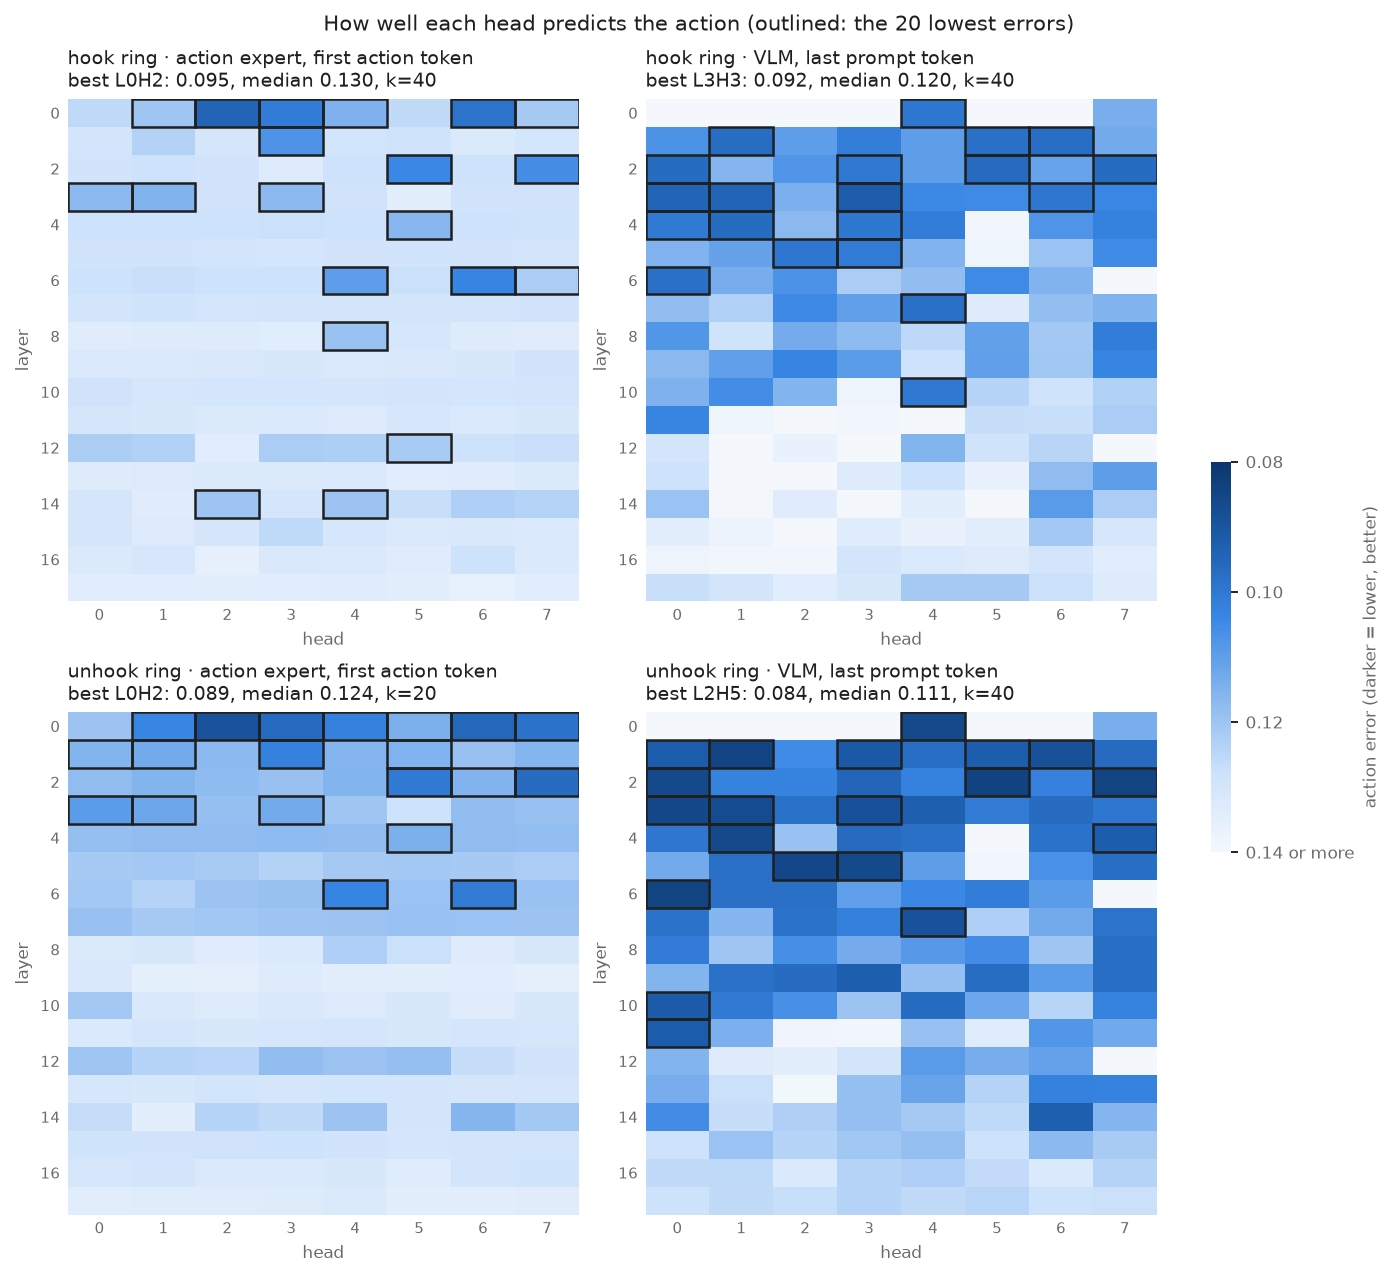
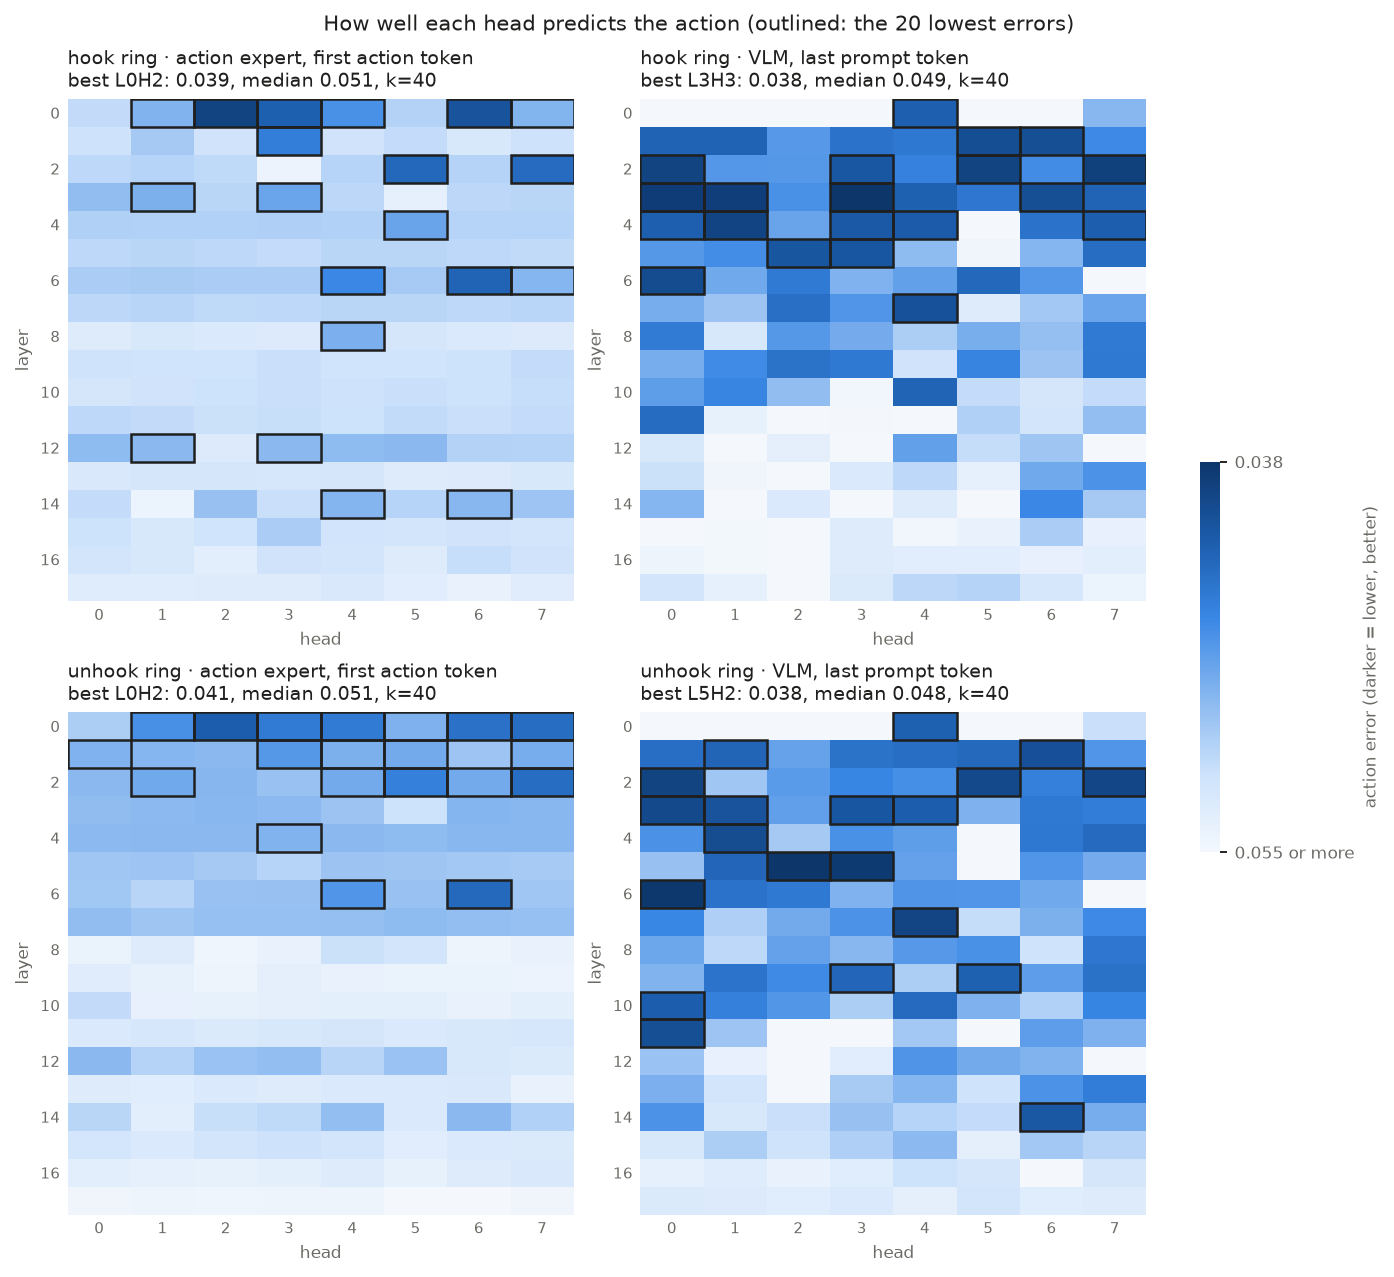
figures for updated head selection n towerstack

diff --git a/RESULTS.md b/RESULTS.md
@@ -216,7 +216,9 @@ classifying tasks.
 synthetic data. Three things change from the section above:
 
 - **Input:** the first action token now receives the model's own predicted actions instead of noise.
-- **Target:** 8 numbers, which are the active arm's 7 joint speeds plus its gripper. They are not
+- **Target:** the paper's robot has one arm, so its target is that arm's 7 joint speeds plus its
+  gripper. Ours is the same for the whole robot: 25 numbers. For the 23 joints (both arms, chest
+  and neck), each is the speed over the next 0.1 s; for the 2 grippers, the command. They are not
   scaled.
 - **Frames:** we use all frames rather than the paper's keyframes, because the paper's rule would
   leave almost no frames in the contact phases.
@@ -225,74 +227,66 @@ For each k, the code joins the outputs of that k's 20 best heads into one long v
 the same way. The k with the lowest error wins, and its 20 heads are the **selected heads**. The
 paper selects at the first action token, so these are the action expert's heads.
 
-- Hook ring (k=40): L0H2 L0H6 L0H3 L6H6 L2H5 L2H7 L1H3 L6H4 L0H4 L3H1 L4H5 L3H3 L3H0 L8H4 L14H4
-  L14H2 L0H1 L0H7 L12H5 L6H7
-- Unhook ring (k=20): L0H2 L0H6 L0H3 L2H7 L0H7 L2H5 L6H6 L0H4 L1H3 L6H4 L0H1 L3H0 L3H1 L1H1 L3H3
-  L4H5 L0H5 L1H5 L2H6 L1H0
+- Hook ring (k=40): L0H2 L0H6 L0H3 L6H6 L2H5 L2H7 L1H3 L6H4 L0H4 L4H5 L3H3 L8H4 L3H1 L0H1 L0H7
+  L14H4 L6H7 L14H6 L12H3 L12H1
+- Unhook ring (k=40): L0H2 L6H6 L2H7 L0H7 L0H6 L0H3 L0H4 L2H5 L0H1 L6H4 L1H3 L2H1 L2H6 L1H5 L2H4
+  L1H7 L1H4 L0H5 L1H0 L4H3
 
 Figures are in `pi05_base_denoised/figures/`: `selected_heads.png` shows these heads, and
 `selection_heatmaps.png`, `selection_layers.png` and `selection_k.png` show the errors behind them.
 
+**An earlier version scored only the active arm's 8 numbers.** Switching to the whole robot kept 17
+of the 20 selected heads in hook ring and 15 of 20 in unhook ring. The order of all 144 heads barely
+changed (rank correlation 0.96-0.97, where 1 is identical order). The unhook-ring fine-tuning runs
+used that earlier selection.
+
 ### How well they predict
 
-**What the error means here.** It is the squared difference averaged over the 8 numbers, with joint
-speeds in rad/s and the gripper from 0 to 1. So it is on a different scale from the 25-dimension
-errors in the section above, and the two can't be compared directly. An error of 0.113 means a
-typical miss of about 0.34 (its square root) per number. The gripper counts about as much as a
-fast-moving joint.
+**What the error means here.** It is the squared difference averaged over the 25 numbers, with joint
+speeds in rad/s and the grippers from 0 to 1. So it is on a different scale from the errors in the
+section above, and the two can't be compared directly. An error of 0.045 means a typical miss of
+about 0.21 (its square root) per number. The arms and grippers make up over 90% of the variation in
+the target; the chest and neck make up about 6-7%, so they count for little.
 
-The easiest way to read these values is the last two columns. They show how much lower each error is
-than the first row, which is the error from always guessing the average action.
-
-| prediction | error: hook ring | error: unhook ring | better than guessing the average: hook ring | better than guessing the average: unhook ring |
+| prediction | error: hook ring | error: unhook ring | lower than the median head: hook ring | lower than the median head: unhook ring |
 |---|---|---|---|---|
-| Guess the average action of the task's other episodes (no head) | 0.137 | 0.133 | - | - |
-| Median head | 0.130 | 0.124 | 5% | 7% |
-| The 20 selected heads, joined | 0.113 | 0.110 | 18% | 17% |
-| Best head (L0H2) | 0.095 | 0.089 | 31% | 33% |
-| Time only (no head; see below) | 0.100 | 0.086 | 27% | 35% |
-
-**The two no-head rows are extra checks we added.** They are not part of the paper's method, and
-they come from a one-off script that is not in the repository. The **time-only** row predicts a
-frame's action by averaging other episodes' frames at the same point in the episode, for example
-40% of the way through. It uses a plain average and knows each episode's total length, which a head
-doesn't and which isn't known during a real run. So it has an advantage over the heads.
+| Median head | 0.051 | 0.051 | - | - |
+| The 20 selected heads, joined | 0.045 | 0.047 | 12% | 8% |
+| Best head (L0H2) | 0.039 | 0.041 | 24% | 19% |
 
 ### How much heads differ
 
 | score spread | paper | ours |
 |---|---|---|
-| First action token (action expert) | 0.47 | 0.058 hook ring, 0.078 unhook ring |
-| Last prompt token (VLM) | 0.05 | 0.32 hook ring, 0.27 unhook ring |
+| First action token (action expert) | 0.47 | 0.053 hook ring, 0.062 unhook ring |
+| Last prompt token (VLM) | 0.05 | 0.34 hook ring, 0.25 unhook ring |
 
 ### Conclusions from the selection
 
 13. **Following the paper's code does not make heads differ the way they do in the paper.** At the
-    first action token, the spread is 0.06-0.08 against the paper's 0.47, so our action-expert heads
+    first action token, the spread is 0.05-0.06 against the paper's 0.47, so our action-expert heads
     are nearly alike. The paper's ordering is also reversed, as ours spreads more at the last prompt
     token. Most of that comes from the VLM's layer 0 heads, which are clearly the worst (average
-    error 0.21-0.24 against 0.11-0.12 for other layers). Without layer 0 the spread is 0.12-0.14.
+    error 0.09-0.10 against 0.05 for other layers). Without layer 0 the spread is 0.10-0.12.
     Our robot, target and frames still differ from the paper's.
-14. **Joining the 20 selected heads does not beat the best single head, or the time-only check.**
-    Joined, they reach 0.113 and 0.110, against 0.095 and 0.089 for the best head, and 0.100 and 0.086
-    for time only. Only two single heads beat time only in hook ring (L0H2, L0H6), and none do in
-    unhook ring. Time only has the advantage described above, so this suggests, but does not prove,
-    that the heads add little beyond timing.
-15. **A typical head adds little.** The median head's error is only 5-7% lower than always guessing the
-    average action.
-16. **The selection barely separates the tasks.** The two tasks share 15 of their 20 selected heads. About
-    3 would be shared by chance, and about 8.5 if only each head's layer mattered. So the same
-    individual heads win in both tasks, which makes them look general rather than task-specific.
-17. **The selection favours early layers.** 12 of 20 selected heads in hook ring and 17 of 20 in unhook
-    ring are in layers 0-3. A head's layer alone accounts for 46% and 79% of the differences between
+14. **Joining the 20 selected heads does not beat the best single head.** Joined, they reach 0.045 and
+    0.047, against 0.039 and 0.041 for L0H2 alone.
+15. **Most heads are close to the median.** The best head is 19-24% better than the median head, but
+    the spread above shows that most heads sit within about 5-6% of the average.
+16. **The selection barely separates the tasks.** The two tasks share 11 of their 20 selected heads.
+    About 3 would be shared by chance, and about 8 if only each head's layer mattered. The best head,
+    L0H2, is the same in both.
+17. **The selection favours early layers.** 11 of 20 selected heads in hook ring and 17 of 20 in unhook
+    ring are in layers 0-3. A head's layer alone accounts for 47% and 84% of the differences between
     heads.
-18. **Changing what the action tokens receive changes which heads win.** Only 4-5 of the 20 selected
+18. **Changing what the action tokens receive changes which heads win.** Only 4 of the 20 selected
     heads were also in the earlier motion top 20, and none in the earlier position top 20. The target
     changed too, so to separate the two causes we looked at the last prompt token, where the action
-    tokens' input has no effect: there, 16-18 of 20 stay the same for motion. So most of the change
+    tokens' input has no effect: there, 17-19 of 20 stay the same for motion. So most of the change
     comes from the input.
-19. **k matters little.** In unhook ring, k=20 wins by under 0.5%. Changing k keeps 18-20 of the
-    selected heads in the top 20 at the first action token (16-20 at the last prompt token).
+19. **k matters little.** k=40, the largest value tried, wins in all four cases, but by only 0.3-2.9%.
+    Changing k keeps 17-20 of the selected heads in the top 20 at the first action token (16-20 at
+    the last prompt token).
 
 We have not checked whether the same heads would be selected on new episodes.
 

diff --git a/towerstack/RESULTS.md b/towerstack/RESULTS.md
@@ -1,62 +1,74 @@
 # Head selection on tower stack
 
 The paper's selection, following its released code (`analysis/select_heads.py`), on the base pi0.5.
-The data is 20 random `stack_rings` episodes, every 5th frame: 5,245 frames. Figures are in
+The data is 20 random `stack_rings` episodes, every 5th frame: 5,245 frames. Hook and unhook ring
+were rerun with the same scoring, so all three tasks can be compared. Figures are in
 `towerstack_denoised/figures/`.
-
-**These results are provisional.** `towerstack/prepared/episodes.csv` has the old gripper-based arm
-labels, which are wrong for many of these episodes. Each episode was scored against the arm in that
-file, so some were scored against the idle arm. The selection needs rerunning with corrected labels
-before the numbers below are used.
 
 ## What the numbers mean
 
-The action error is the squared difference between the predicted and real action, averaged over 8
-numbers: one arm's 7 joint speeds (rad/s) and its gripper (0 to 1). Lower is better. The prediction
-is built from the frames, in other episodes of the task, where the head's output is most similar.
+The **action error** is the squared difference between the predicted and real action, averaged over
+the robot's 25 action numbers. For the 23 joints (both arms, chest and neck) that is the speed over
+the next 0.1 s in rad/s; for the 2 grippers, the command from 0 to 1. Lower is better. A head's
+prediction is built from the frames, in other episodes of the task, where its output is most
+similar.
+
+The error depends on how much the robot moves in a task, so errors can be compared between heads on
+one task, but not between tasks. Tower stack's errors are about twice the ring tasks'. That is most
+likely because its actions vary more, but we didn't measure it, so it doesn't show that heads do
+worse on tower stack.
 
 ## Selected heads (action expert, first action token, k=40)
 
-L0H2 L0H6 L0H3 L6H6 L2H7 L6H4 L3H0 L2H5 L12H4 L4H5 L12H0 L14H7 L0H0 L3H1 L2H3 L12H5 L0H7 L14H6 L6H3 L10H0
+L0H2 L0H3 L0H6 L2H7 L6H6 L2H5 L6H4 L3H0 L12H4 L0H7 L3H1 L0H1 L0H4 L4H5 L14H6 L0H0 L2H3 L12H5 L1H3 L14H4
 
 ## Results
 
 | action expert | tower stack | hook ring | unhook ring |
 |---|---|---|---|
-| Best head | L0H2, 0.127 | L0H2, 0.095 | L0H2, 0.089 |
-| Median head | 0.145 | 0.130 | 0.124 |
-| The 20 selected heads, joined | 0.137 | 0.113 | 0.110 |
-| Score spread (paper: 0.47) | 0.024 | 0.058 | 0.078 |
-| Selected heads in layers 0-3 | 10 of 20 | 12 of 20 | 17 of 20 |
+| Best head | L0H2, 0.080 | L0H2, 0.039 | L0H2, 0.041 |
+| Median head | 0.102 | 0.051 | 0.051 |
+| Best head, lower than the median head by | 21% | 24% | 19% |
+| The 20 selected heads joined, lower than the median head by | 7% | 12% | 8% |
+| Score spread (paper: 0.47) | 0.043 | 0.053 | 0.062 |
+| Selected heads in layers 0-3 | 13 of 20 | 11 of 20 | 17 of 20 |
 
 **Score spread** is the standard deviation of the 144 heads' errors divided by their average. At
-0.024, heads' errors differ from the average by only about 2%. At the VLM's last prompt token it is
-0.178, against the paper's 0.05, and it falls to 0.062 without layer 0.
+0.043, heads' errors differ from the average by only about 4%, against about half the average in the
+paper. At the VLM's last prompt token the spread is 0.28, against the paper's 0.05; it falls to 0.105
+without layer 0, whose heads are the worst (average error 0.19 against 0.10 for other layers).
 
 | shared with tower stack | hook ring | unhook ring | by chance | if only the layer mattered |
 |---|---|---|---|---|
-| Selected action-expert heads (of 20) | 12 | 11 | about 3 | about 7 |
-| Rank correlation of all 144 heads, action expert | 0.63 | 0.46 | | |
-| Rank correlation of all 144 heads, VLM | 0.91 | 0.92 | | |
+| Selected action-expert heads (of 20) | 15 | 11 | about 3 | about 9 |
+| Order of all 144 heads, action expert (rank correlation) | 0.85 | 0.87 | | |
+| Order of all 144 heads, VLM (rank correlation) | 0.93 | 0.91 | | |
+
+A rank correlation of 1 means the heads are in the same order on both tasks.
 
 ## Conclusions
 
-1. **Heads barely differ on this task.** The action-expert spread of 0.024 is below both ring tasks and
-   far below the paper's 0.47.
-2. **The same heads win across tasks.** Eleven heads are selected on all three tasks: L0H2 L0H3 L0H6
-   L0H7 L2H5 L2H7 L3H0 L3H1 L4H5 L6H4 L6H6. The best three are L0H2, L0H6 and L0H3, in that order, on all
-   three tasks. This is another sign that the
-   selection finds general heads rather than task-specific ones, and this time on a more different
-   task.
-3. **Joining the selected heads doesn't beat the best one.** The joined heads reach 0.137, against 0.127
-   for L0H2 alone, as on the ring tasks.
-4. **k has more effect here than on unhook ring,** but 40, the largest value tried, wins, so larger
-   values might do better.
+1. **The same heads do well on all three tasks.** L0H2 is the best head on all three. Eleven heads are
+   selected on all three: L0H1 L0H2 L0H3 L0H4 L0H6 L0H7 L1H3 L2H5 L2H7 L6H4 L6H6. Only five are
+   selected for tower stack alone: L0H0 L2H3 L3H0 L12H4 L12H5. The order of all 144 heads is also
+   close (0.85-0.87 in the action expert, 0.91-0.93 in the VLM). Tower stack is a different task from
+   the ring tasks, so this is the clearest sign yet that the selection finds general heads rather
+   than task-specific ones.
+2. **Heads barely differ.** The action-expert spread of 0.043 is in line with the ring tasks and far
+   below the paper's 0.47.
+3. **Joining the selected heads doesn't beat the best one.** Joined, the 20 heads are 7% below the
+   median head; L0H2 alone is 21% below it. The same holds on the ring tasks.
+4. **Early layers dominate.** 13 of the 20 selected heads are in layers 0-3, and a head's layer alone
+   accounts for 56% of the differences between heads.
+5. **k matters little.** k=40 wins by 0.3%, and changing k keeps 18-20 of the 20 selected heads.
+
+## Earlier version
+
+A first run scored only one arm per episode, using arm labels that were wrong for many episodes.
+Scoring the whole robot kept 16 of its 20 selected heads.
 
 ## What these results can't show
 
-- **The higher errors on tower stack (0.145 vs 0.124-0.130) aren't explained.** They could come from the
-  task, or from the wrong arm labels. No baseline has been computed for this task.
-- **The VLM's correlation may be the most reliable comparison.** Wrong labels change only the
-  target, so they should make the tasks agree less, not more. They could still change these values.
-- **Selection isn't performance.** No fine-tuning has been run on tower stack.
+- **Selection isn't performance.** No fine-tuning has been run on tower stack. On unhook ring,
+  fine-tuning the selected heads did no better than random heads.
+- **One random set of 20 episodes.** We have not checked whether another set selects the same heads.
